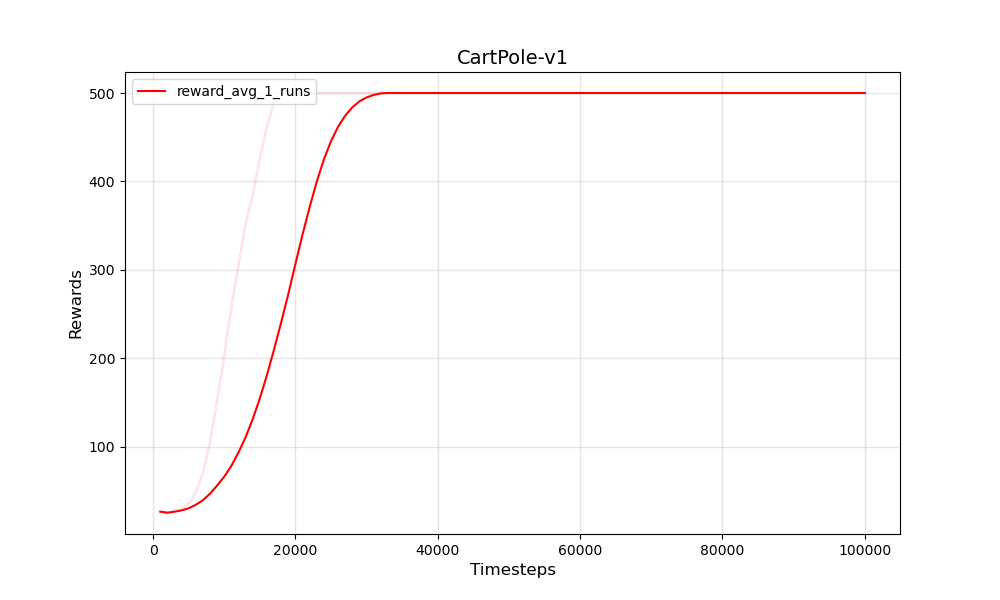
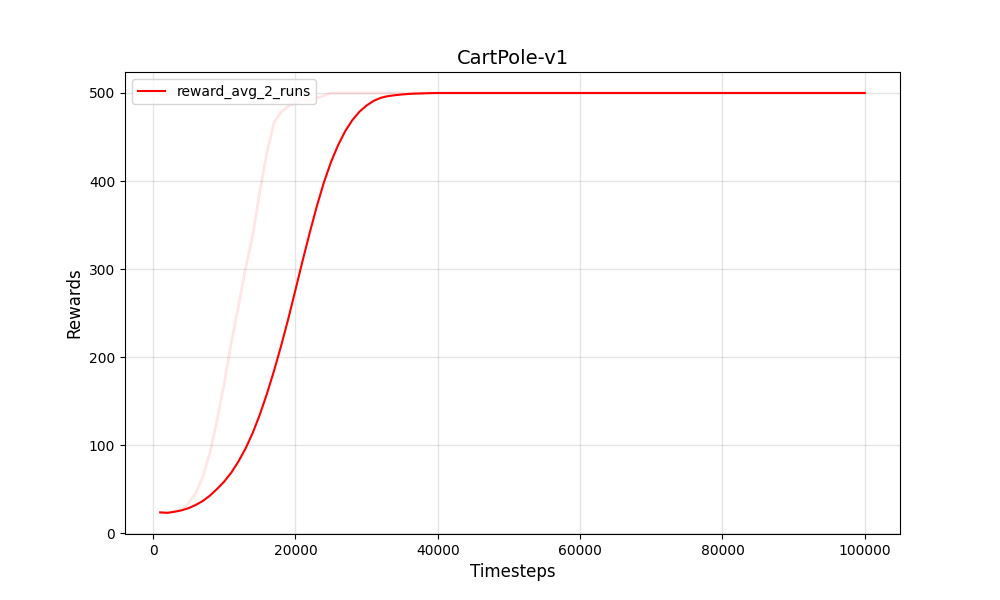
adapt to latest gym and RL libs

diff --git a/arguments.py b/arguments.py
@@ -1,5 +1,4 @@
 import argparse
-import numpy as np
 import os
 from distutils.util import strtobool
 
@@ -10,22 +9,22 @@ def parse_args():
     # environment
     parser.add_argument('--exp_name', type=str, default=os.path.basename(__file__).rstrip(".py"))
     parser.add_argument('--env_name', type=str, default="cartpole")
-    parser.add_argument('--seed', type=int, default=0)
-    parser.add_argument('--pretrained', type=int, default=0)
+    parser.add_argument('--seed', type=int, default=1)
+    parser.add_argument('--pretrained', type=int, default=1)
     parser.add_argument('--render', type=lambda x:bool(strtobool(x)), default=False)
 
     # PPO discrete
-    parser.add_argument("--max_train_steps", type=int, default=int(3e6),
+    parser.add_argument("--max_train_steps", type=int, default=int(5e4),
                         help=" Maximum number of training steps")
     parser.add_argument("--evaluate_freq", type=float, default=1e4,
                         help="Evaluate the policy every 'evaluate_freq' steps")
-    parser.add_argument("--save_freq", type=int, default=1e5,
+    parser.add_argument("--save_freq", type=int, default=1e4,
                         help="Save frequency")
     parser.add_argument("--policy_dist", type=str, default="Gaussian",
                         help="Beta or Gaussian")
-    parser.add_argument("--batch_size", type=int, default=4096,
+    parser.add_argument("--batch_size", type=int, default=2048,
                         help="Batch size")
-    parser.add_argument("--mini_batch_size", type=int, default=1024,
+    parser.add_argument("--mini_batch_size", type=int, default=64,
                         help="Minibatch size")
     parser.add_argument("--hidden_width", type=int, default=64,
                         help="The number of neurons in hidden layers of the neural network")
@@ -39,7 +38,7 @@ def parse_args():
                         help="GAE parameter")
     parser.add_argument("--epsilon", type=float, default=0.2,
                         help="PPO clip parameter")
-    parser.add_argument("--K_epochs", type=int, default=80,
+    parser.add_argument("--K_epochs", type=int, default=40,
                         help="PPO parameter")
     parser.add_argument("--use_adv_norm", type=lambda x:bool(strtobool(x)), default=True,
                         help="Advantage normalization")
@@ -51,7 +50,7 @@ def parse_args():
                         help="Reward scaling")
     parser.add_argument("--entropy_coef", type=float, default=0.01,
                         help="Policy entropy")
-    parser.add_argument("--use_lr_decay", type=lambda x:bool(strtobool(x)), default=False,
+    parser.add_argument("--use_lr_decay", type=lambda x:bool(strtobool(x)), default=True,
                         help="Learning rate Decay")
     parser.add_argument("--use_grad_clip", type=lambda x:bool(strtobool(x)), default=True,
                         help="Gradient clip")

diff --git a/train.py b/train.py
@@ -6,29 +6,25 @@ Self-supervised Reinforcement Learning
 
 
 import os
-from distutils.util import strtobool
-import time
-import random
 from datetime import datetime
 
 import numpy as np
 import gym
 import torch
-from torch.utils.tensorboard import SummaryWriter
+from agent.ppo_discrete import make_ppo_discrete
+from agent.ppo_continous import make_ppo_continous
 
 from arguments import parse_args
 from env.config import get_config
-from agent.ppo_discrete import make_ppo_discrete
-from agent.ppo_continous import make_ppo_continous
 import utils as utils
 
 
 
-def evaluate_policy(args, env, agent, state_norm):
+def evaluate_policy(args, env, agent, eval_seed, state_norm):
     times = 3
     evaluate_reward = 0
     for _ in range(times):
-        s = env.reset()
+        s = env.reset(seed=eval_seed)
         if args.use_state_norm:  # During the evaluating,update=False
             s = state_norm(s, update=False)
         done = False
@@ -59,9 +55,7 @@ def train(args, env_name, seed, number=1):
     env_evaluate = gym.make(env_name)  # When evaluating the policy, we need to rebuild an environment
 
     # Set random seed
-    env.seed(seed)
     env.action_space.seed(seed)
-    env_evaluate.seed(seed)
     env_evaluate.action_space.seed(seed)
     np.random.seed(seed)
     torch.manual_seed(seed)
@@ -159,7 +153,7 @@ def train(args, env_name, seed, number=1):
 
     ################### training #########################
     while total_steps < args.max_train_steps:
-        s = env.reset()
+        s, info = env.reset(seed=seed)
         if args.use_state_norm:
             s = state_norm(s)
         if args.use_reward_scaling:
@@ -180,7 +174,8 @@ def train(args, env_name, seed, number=1):
                     action = a
             else:
                 action = a
-            s_, r, done, _ = env.step(action)
+            s_, r, terminated, truncated, _ = env.step(action)
+            done = terminated or truncated
 
             current_ep_reward += r
             time_step += 1

diff --git a/test.py b/test.py
@@ -1,19 +1,13 @@
-import os
-import glob
 import time
-import random
-from datetime import datetime
-from distutils.util import strtobool
-
-import torch
-import numpy as np
+import utils as utils
 import gym
+
+from agent.ppo_discrete import make_ppo_discrete
+from agent.ppo_continous import make_ppo_continous
 
 from arguments import parse_args
 from env.config import get_config
-from agent.ppo_discrete import make_ppo_discrete
-from agent.ppo_continous import make_ppo_continous
-import utils as utils
+
 
 
 #################################### Testing ###################################

diff --git a/utils.py b/utils.py
@@ -1,3 +1,4 @@
+import os
 import numpy as np
 import torch
 import torch.nn as nn
@@ -8,7 +9,7 @@ print("=========================================================================
 # set device to cpu or cuda
 device = torch.device('cpu')
 if(torch.cuda.is_available()): 
-    device = torch.device('cuda:0') 
+    device = torch.device('cuda')
     torch.cuda.empty_cache()
     print("Device set to : " + str(torch.cuda.get_device_name(device)))
 else:

diff --git a/plot_graph.py b/plot_graph.py
@@ -8,7 +8,9 @@ def save_graph():
 
     print("============================================================================================")
 
-    env_name = 'BipedalWalker-v3'
+    env_name = 'CartPole-v1'
+
+    # env_name = 'BipedalWalker-v3'
 
     fig_num = 1   #### change this to prevent overwriting figures in same env_name folder
 

diff --git a/agent/ppo_continous.py b/agent/ppo_continous.py
@@ -10,7 +10,7 @@ import utils
 # set device to cpu or cuda
 device = torch.device('cpu')
 if(torch.cuda.is_available()): 
-    device = torch.device('cuda:0') 
+    device = torch.device('cuda')
     torch.cuda.empty_cache()
 
 

diff --git a/agent/ppo_discrete.py b/agent/ppo_discrete.py
@@ -12,7 +12,7 @@ import utils
 # set device to cpu or cuda
 device = torch.device('cpu')
 if(torch.cuda.is_available()): 
-    device = torch.device('cuda:0') 
+    device = torch.device('cuda')
     torch.cuda.empty_cache()
 
 

diff --git a/README.md b/README.md
@@ -14,7 +14,7 @@ A concise explaination of PPO algorithm can be found [here](https://stackoverflo
 
   ```
   python3 train.py \
-      --env-name cartpole \
+      --env_name cartpole \
       --seed 1 \
       --pretrained 1 \
       --max_train_steps 5e4 \
@@ -24,11 +24,11 @@ A concise explaination of PPO algorithm can be found [here](https://stackoverflo
       --K_epochs 40
   ```
 
-- To test a preTrained network : example - test PPO on *CartPole* domain 
+- To evaluate a preTrained network : example - evaluate PPO in *CartPole* domain 
 
   ```
-  python3 test.py \
-      --env-name cartpole \
+  python3 eval.py \
+      --env_name cartpole \
       --seed 1 \
       --pretrained 1
   ```
@@ -38,8 +38,8 @@ A concise explaination of PPO algorithm can be found [here](https://stackoverflo
 * We provide a pre-trained model that can be used for evaluation: 
 
   ```
-  python3 test.py \
-      --env-name cartpole \
+  python3 eval.py \
+      --env_name cartpole \
       --seed 0 \
       --pretrained 0
   ```
